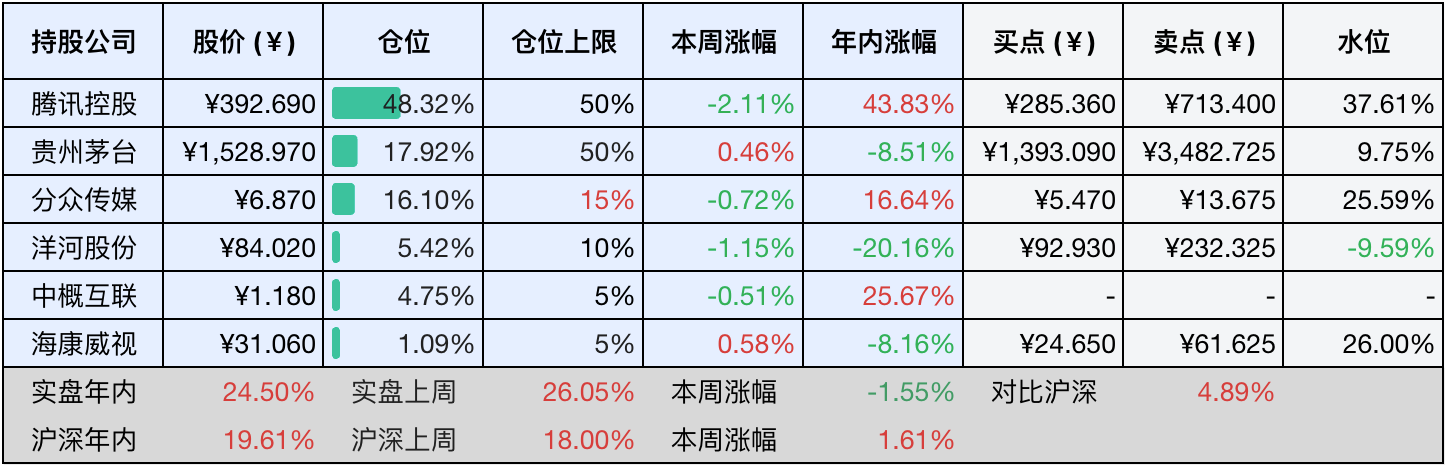
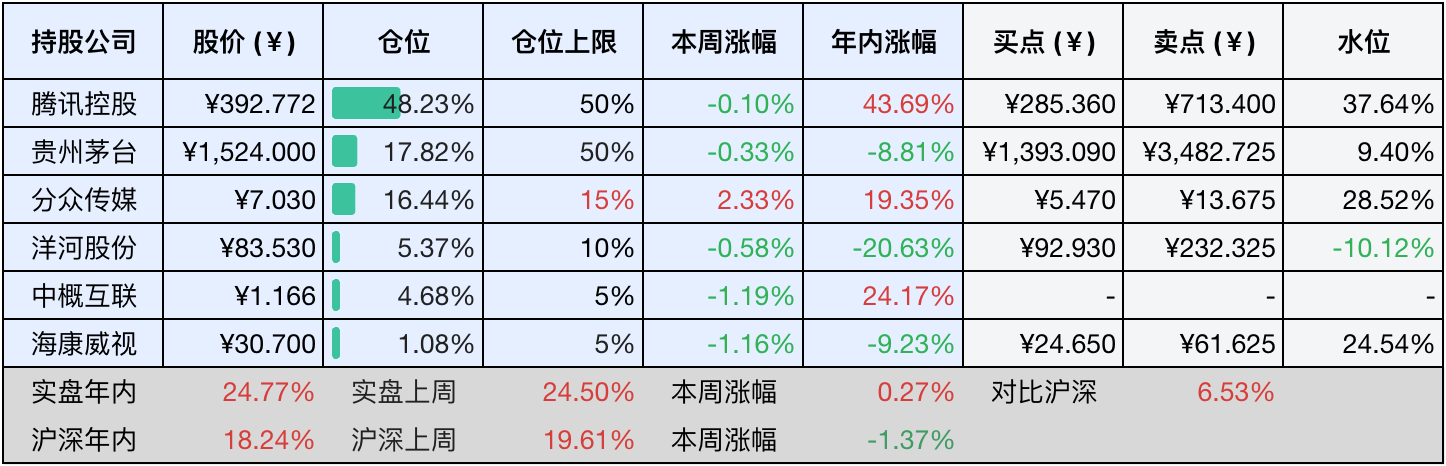
Last update time: 2024-12-31 20:03:00

diff --git a/docs/blog/2024/12/20241231.md b/docs/blog/2024/12/20241231.md
@@ -1,6 +1,6 @@
 ---
 title: 老罗年终总结-20241231
-description: 又是一年终总结时，这一年收获过、欣喜过，跌倒过、迷茫过，感谢自己从来没有退缩过；这一年，有得，有失，有遇见，有感动，是成长，亦是蜕变。
+description: 又是一年终总结时，这一年收获过、欣喜过，跌倒过、迷茫过，感谢自己从来没有退缩过；这一年，有得，有失，有遇见，有感动，是成长，亦是蜕变。当前持有的股票包括：腾讯控股48.23%、贵州茅台17.82%、分众传媒16.44%、洋河股份5.37%、中概互联4.68%、海康微视1.08%。此外还有少量现金，加上少量的恒瑞医药、上海机场、宋城演义等股票，其份额较少，仅作为观察仓不进行记录。截止到2024年12月31日，全年的收益+24.77%，跑赢沪深300指数+6.53%，完成预订目标。
 banner: ../../../../attachments/2024/12/20241231/banner.jpeg
 comments: true
 hide:
@@ -12,7 +12,7 @@ tags:
     - 2024年
 ---
 
-__微信公众号文章地址：[老罗投资年终总结-20241231](https://mp.weixin.qq.com/s/sYLH80D6EPyjH-cPwxIfaQ)__
+__微信公众号文章地址：[老罗投资年终总结-20241231](https://mp.weixin.qq.com/s/RLmleJUl5HxTZzeWW7LswA)__
 
 ```
 老罗投资周记，每周六更新。专注于股权投资、阅读、学习与个人成长，知行合一、日拱一卒、投资人生。微信公众号【老罗投资】，文章均首发于公众号。
@@ -22,11 +22,11 @@ __微信公众号文章地址：[老罗投资年终总结-20241231](https://mp.w
 
 又是一年终总结时，这一年收获过、欣喜过，跌倒过、迷茫过，感谢自己从来没有退缩过；这一年，有得，有失，有遇见，有感动，是成长，亦是蜕变。
 
-当前持有的股票包括：腾讯控股48.32%、贵州茅台17.92%、分众传媒16.10%、洋河股份5.42%、中概互联4.75%、海康微视1.09%。
+当前持有的股票包括：腾讯控股48.23%、贵州茅台17.82%、分众传媒16.44%、洋河股份5.37%、中概互联4.68%、海康微视1.08%。
 
 此外还有少量现金，加上少量的恒瑞医药、上海机场、宋城演义等股票，其份额较少，仅作为观察仓不进行记录。
 
-截止到2024年12月31日，全年的收益<span class="red">+24.50%</span>。
+截止到2024年12月31日，全年的收益<span class="red">+24.77%</span>，跑赢沪深300指数<span class="red">+6.53%</span>，完成预订目标。
 
 **注1：表底为截止到今日，老罗和沪深300指数今年的收益率。**
 
@@ -71,17 +71,17 @@ __微信公众号文章地址：[老罗投资年终总结-20241231](https://mp.w
 
 ### 4. 莫沉湎于过往，且勇敢向未来
 
-人生路上，别再一味沉湎于“如果……当初”的幻想中，要知道，我们不可能在每一个抉择上都尽善尽美。许多事情，哪怕给予重来一次的机会，以当时我们的阅历与心智，很大概率还是会作出相同的决定，结局亦难以改变。
+人生路上，别再一味沉溺于“如果……当初”的幻想中，要知道，我们不可能在每一个抉择上都尽善尽美。许多事情，哪怕给予重来一次的机会，以当时我们的阅历与心智，很大概率还是会作出相同的决定，结局亦难以改变。
 
 玫瑰赠予谁都会散发浪漫的气息，青春选择谁都会留下些许遗憾，人无法在拥有青春的同时就深刻理解青春的意义，正因如此，有些事物唯有在失去之后，我们才能真切体会到它们的弥足珍贵。
 
 既然如此，那就无需频频回头张望，亦不必对往昔的自己妄加批判，人生的旅途漫长悠远，总会有形形色色的人陪伴我们去看相似的风景，过往的经历，无论是喜是悲，都是我们生命中不可或缺的部分。它们铸就了现在的我们，让我们在得到一些领悟的同时，也学会了坦然接受和勇敢前行。
 
-如果觉得本文还不错，那就点个赞或者『在看』吧，祝大家新年快乐！新的一年每天都进步一点，斩获更好人生！
+如果觉得本文还不错，那就点个赞或者『在看』吧，祝大家新年快乐！新的一年每天都进步一点，斩获更好的人生！
 
 ```
 老罗投资周记，每周六更新。专注于股权投资、阅读、学习与个人成长，知行合一、日拱一卒、投资人生。微信公众号【老罗投资】，文章均首发于公众号。
 免责声明：本公众号只作为本人的投资日志记录，本文中提及的个股都有腰斩或血本无归的风险，本人不做任何投资建议，投资请坚持独立思考。
 ```
 
-__微信公众号文章地址：[老罗投资年终总结-20241231](https://mp.weixin.qq.com/s/sYLH80D6EPyjH-cPwxIfaQ)__
+__微信公众号文章地址：[老罗投资年终总结-20241231](https://mp.weixin.qq.com/s/RLmleJUl5HxTZzeWW7LswA)__
